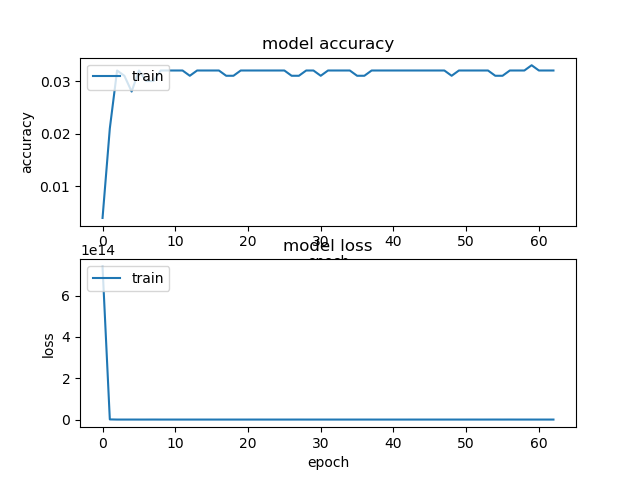
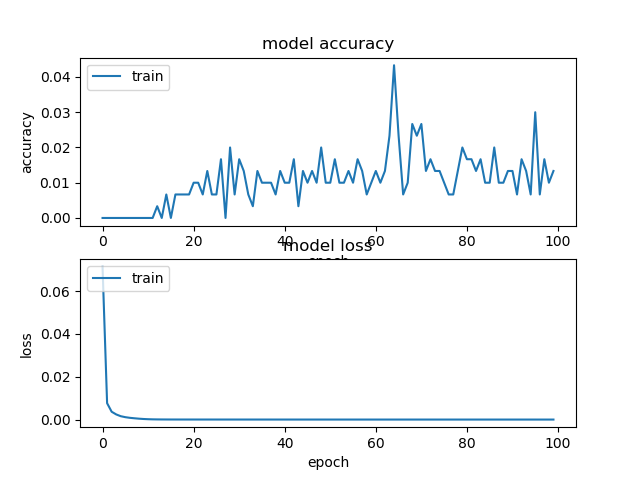
sync

diff --git a/neuralKeras/src/test3.py b/neuralKeras/src/test3.py
@@ -180,39 +180,39 @@ lam = 0.0001
 
 model = Sequential()
 
-model.add(Flatten(input_shape=(quan, quan, 1)))
-# model.add(BatchNormalization(axis=1))
-model.add(Dense(int(matrixDim * 8),
-                activation='relu', kernel_initializer='he_uniform'))
-model.add(Dropout(0.2))
-# model.add(BatchNormalization(axis=1))
-
-model.add(Dense(int(matrixDim * 8),
-                activation='relu', kernel_initializer='he_uniform'))
-model.add(Dropout(0.2))
-# model.add(BatchNormalization(axis=1))
-
-model.add(Dense(int(matrixDim * 4),
-                activation='relu', kernel_initializer='he_uniform'))
-model.add(Dropout(0.2))
-# model.add(BatchNormalization(axis=1))
-
-# model.add(Dense(int(matrixDim * lenMapStr),
-#                 activation='softplus', kernel_initializer='glorot_uniform'))
-model.add(Dropout(0.2))
-# model.add(BatchNormalization(axis=1))
-model.add(Dense(matrixDim * lenMapStr,
-                activation='softplus', kernel_initializer='glorot_uniform'))
-
 # model.add(Flatten(input_shape=(quan, quan, 1)))
-# model.add(Dense(int(matrixDim * 2),
-#                 activation='sigmoid'))
+# # model.add(BatchNormalization(axis=1))
+# model.add(Dense(int(matrixDim * 8),
+#                 activation='relu', kernel_initializer='he_uniform'))
+# model.add(Dropout(0.2))
+# # model.add(BatchNormalization(axis=1))
 
-# model.add(Dense(int(matrixDim * 2),
-#                 activation='sigmoid'))
+# model.add(Dense(int(matrixDim * 8),
+#                 activation='relu', kernel_initializer='he_uniform'))
+# model.add(Dropout(0.2))
+# # model.add(BatchNormalization(axis=1))
 
+# model.add(Dense(int(matrixDim * 4),
+#                 activation='relu', kernel_initializer='he_uniform'))
+# model.add(Dropout(0.2))
+# # model.add(BatchNormalization(axis=1))
+
+# # model.add(Dense(int(matrixDim * lenMapStr),
+# #                 activation='softplus', kernel_initializer='glorot_uniform'))
+# model.add(Dropout(0.2))
+# # model.add(BatchNormalization(axis=1))
 # model.add(Dense(matrixDim * lenMapStr,
-#                 activation='sigmoid'))
+#                 activation='softplus', kernel_initializer='glorot_uniform'))
+
+model.add(Flatten(input_shape=(quan, quan, 1)))
+model.add(Dense(int(matrixDim * 2),
+                activation='sigmoid'))
+
+model.add(Dense(int(matrixDim * 2),
+                activation='sigmoid'))
+
+model.add(Dense(matrixDim * lenMapStr,
+                activation='sigmoid'))
 
 # kernel_initializer='glorot_uniform' 'he_uniform'
 # model = load_model('./nets/net2.h5')
@@ -226,13 +226,13 @@ model.add(Dense(matrixDim * lenMapStr,
 sgd = SGD(lr=0.1, decay=1e-6, momentum=0.9, nesterov=True)
 model.compile(loss='mse', optimizer='Adam', metrics=['accuracy'])
 
-history = model.fit(matrixVec, mappingVec, epochs=2000, batch_size=50,
+history = model.fit(matrixVec, mappingVec, epochs=100, batch_size=50,
                     callbacks=[EarlyStopping(monitor='loss', patience=20)])
 score = model.evaluate(matrixVec, mappingVec, batch_size=50)
 
 
 model.save('./nets/net1.h5')
-plot_model(model, to_file='model.png', show_shapes=True)
+# plot_model(model, to_file='model.png', show_shapes=True)
 
 
 plt.subplot(211)

diff --git a/neuralKeras/src/test4.py b/neuralKeras/src/test4.py
@@ -145,8 +145,8 @@ for file in mappingFiles:
         mapping[i] = mapping[i][:-1].split(' ')
         strDim = len(mapping[i])
         for j in range(strDim):
-            mapping[i][j] = int(mapping[i][j]) * step
-            # mapping[i][j] = int(mapping[i][j]) / 10
+            # mapping[i][j] = int(mapping[i][j]) * step
+            mapping[i][j] = int(mapping[i][j]) / 10
             # mapping[i][j] = int(mapping[i][j]) / max
             # mapping[i][j] = int(mapping[i][j])
     tmp = np.array(mapping)
@@ -199,7 +199,7 @@ sgd = SGD(lr=0.1, decay=1e-6, momentum=0.9, nesterov=True)
 model.compile(loss='mse', optimizer='Adam', metrics=['accuracy'])
 
 history = model.fit(matrixVec, mappingVec, epochs=500, batch_size=50,
-                    callbacks=[EarlyStopping(monitor='loss', patience=40)])
+                    callbacks=[EarlyStopping(monitor='loss', patience=10)])
 
 # history = model.fit(matrixVec, mappingVec, epochs=300, batch_size=50)
 score = model.evaluate(matrixVec, mappingVec, batch_size=50)
@@ -258,8 +258,8 @@ for i in range(len(matrixVec)):
     for j in range(matrixDim):
         for k in range(lenMapStr):
             if (abs(pred[0][j * lenMapStr + k] - 0) > 0.001):
-                tmp = int(round(pred[0][j * lenMapStr + k] / step))
-                # tmp = int(round(pred[0][j * lenMapStr + k] * 10))
+                # tmp = int(round(pred[0][j * lenMapStr + k] / step))
+                tmp = int(round(pred[0][j * lenMapStr + k] * 10))
                 # tmp = int(round(pred[0][j * lenMapStr + k] * max))
                 # tmp = int(round(pred[0][j * lenMapStr + k]))
                 if (tmp > max - 1):

diff --git a/neuralKeras/src/com_matrix_gen.cpp b/neuralKeras/src/com_matrix_gen.cpp
@@ -49,21 +49,27 @@ int main(int argc, char const *argv[])
             matix[i][j] = (int)(rand()) % rnd;
     }*/
 
-    for (int i = 0; i < num; i++)
-        for (int j = 0; j < num; j++)
-            matix[i][j] = (int)(rand());
+    // for (int i = 0; i < num; i++)
+    //     for (int j = 0; j < num; j++)
+    //         matix[i][j] = (int)(rand());
+
+    for (int i = 0; i < num - 1; i++)
+    {
+        matix[i][i + 1] = (int)(rand());
+        matix[i + 1][i] = (int)(rand());
+    }
 
 
     //int rnd_num = (int)(rand()) % num;
-    int rnd_num = num;
-    for (int i = 0; i < rnd_num; i++)
-    {
-        for (int j = 0; j < rnd_num; j++)
-        {
-            int rnd_i = (int)(rand()) % num, rnd_j = (int)(rand()) % num;
-            matix[rnd_i][rnd_j] = 0;
-        }
-    }
+    // int rnd_num = num;
+    // for (int i = 0; i < rnd_num; i++)
+    // {
+    //     for (int j = 0; j < rnd_num; j++)
+    //     {
+    //         int rnd_i = (int)(rand()) % num, rnd_j = (int)(rand()) % num;
+    //         matix[rnd_i][rnd_j] = 0;
+    //     }
+    // }
 
 
     for (int i = 0; i < num; i++)

diff --git a/neuralKeras/src/neuralMapping.py b/neuralKeras/src/neuralMapping.py
@@ -8,7 +8,7 @@ from keras.layers import Dense, Dropout, ZeroPadding2D, AveragePooling2D
 from keras.layers import Conv2D, MaxPooling2D, Flatten, BatchNormalization
 from keras.callbacks import EarlyStopping
 from keras.optimizers import SGD
-from keras.utils import plot_model
+# from keras.utils import plot_model
 import matplotlib.pyplot as plt
 from keras.regularizers import l2
 
@@ -226,7 +226,7 @@ score = model.evaluate(matrixVec, mappingVec, batch_size=50)
 
 
 model.save('./nets/net1.h5')
-plot_model(model, to_file='model.png', show_shapes=True)
+# plot_model(model, to_file='model.png', show_shapes=True)
 
 
 plt.subplot(211)
